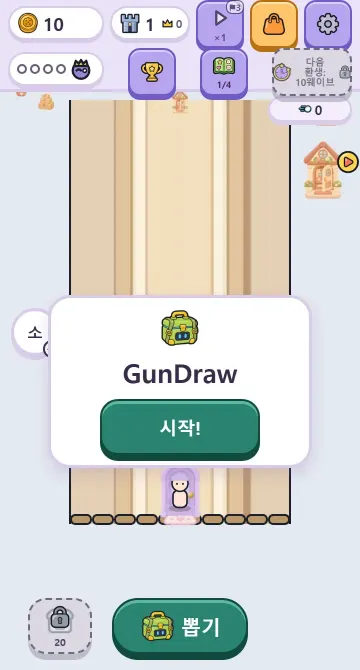
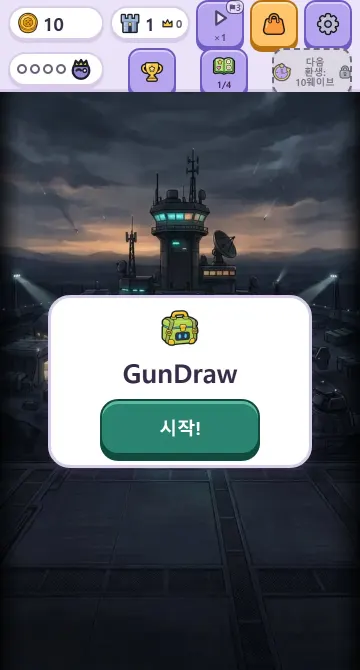
gundraw v0.7: 새 아트로 일괄 교체(미래 용병 vs 외계인)
- 홈: 히어로 4:5 그림, 대표 카드 16:9, 캐릭터 4명, 개발 이야기 그림
- GunDraw 페이지: 히어로·캐릭터(어두운 카드 통일)·아리 포즈 갤러리 3장·개발 이야기·OG(share 1200x630)
- 플레이 화면 3장을 v0.7 backview 빌드로 재촬영
- 좀비·우리 집 문구와 SD 슬롯 제거, 장르 '외계인 디펜스'
- 그림 변환 tools/make-gundraw-art.py(회색 단색 배경을 어두운 배경으로), game-assets.json은 art/를 keep

diff --git a/games/gundraw/index.html b/games/gundraw/index.html
@@ -4,7 +4,7 @@
 <meta charset="utf-8">
 <meta name="viewport" content="width=device-width, initial-scale=1, viewport-fit=cover">
 <title data-en="GunDraw — JmkFamily">GunDraw — JmkFamily</title>
-<meta name="description" content="좀비가 우리 집에 쳐들어왔다. 뽑기로 총을 모아 파티에 장착하고 집을 지키는 좀비 디펜스, GunDraw. 웹에서 바로 플레이. 개발 중인 웹 버전입니다." data-en="GunDraw: zombies are at the door. Pull guns, equip your party and hold the house. A zombie defense game you can play in the browser. The web version is a work in progress.">
+<meta name="description" content="외계인이 기지로 내려온다. 뽑기로 총을 모아 분대를 무장하고 정문을 지키는 외계인 디펜스, GunDraw. 웹에서 바로 플레이. 개발 중인 웹 버전입니다." data-en="GunDraw: aliens are dropping on the base. Pull guns, arm your squad and hold the gate. An alien defense game you can play in the browser. The web version is a work in progress.">
 <link rel="canonical" href="https://jmkfamily.github.io/games/gundraw/">
 <meta name="theme-color" content="#FFFFFF" media="(prefers-color-scheme: light)">
 <meta name="theme-color" content="#0D0D10" media="(prefers-color-scheme: dark)">
@@ -15,17 +15,17 @@
 <meta property="og:type" content="website">
 <meta property="og:site_name" content="JmkFamily">
 <meta property="og:title" content="GunDraw — JmkFamily">
-<meta property="og:description" content="좀비가 우리 집에 쳐들어왔다. 뽑기로 총을 모아 파티에 장착하고 집을 지키는 좀비 디펜스, GunDraw. 웹에서 바로 플레이. 개발 중인 웹 버전입니다.">
+<meta property="og:description" content="외계인이 기지로 내려온다. 뽑기로 총을 모아 분대를 무장하고 정문을 지키는 외계인 디펜스, GunDraw. 웹에서 바로 플레이. 개발 중인 웹 버전입니다.">
 <meta property="og:url" content="https://jmkfamily.github.io/games/gundraw/">
-<meta property="og:image" content="https://jmkfamily.github.io/assets/brand/og-1200x630.png">
+<meta property="og:image" content="https://jmkfamily.github.io/assets/games/gundraw/og-1200x630.jpg">
 <meta property="og:image:width" content="1200">
 <meta property="og:image:height" content="630">
 <meta property="og:locale" content="ko_KR">
 <meta property="og:locale:alternate" content="en_US">
 <meta name="twitter:card" content="summary_large_image">
 <meta name="twitter:title" content="GunDraw — JmkFamily">
-<meta name="twitter:description" content="좀비가 우리 집에 쳐들어왔다. 뽑기로 총을 모아 파티에 장착하고 집을 지키는 좀비 디펜스, GunDraw. 웹에서 바로 플레이. 개발 중인 웹 버전입니다.">
-<meta name="twitter:image" content="https://jmkfamily.github.io/assets/brand/og-1200x630.png">
+<meta name="twitter:description" content="외계인이 기지로 내려온다. 뽑기로 총을 모아 분대를 무장하고 정문을 지키는 외계인 디펜스, GunDraw. 웹에서 바로 플레이. 개발 중인 웹 버전입니다.">
+<meta name="twitter:image" content="https://jmkfamily.github.io/assets/games/gundraw/og-1200x630.jpg">
 <link rel="preconnect" href="https://fonts.googleapis.com">
 <link rel="preconnect" href="https://fonts.gstatic.com" crossorigin>
 <link href="https://fonts.googleapis.com/css2?family=Noto+Sans+KR:wght@400;600;700&display=swap" rel="stylesheet">
@@ -33,7 +33,7 @@
 <script>(function(){var h=document.documentElement;h.classList.add('js');var l,q=/[?&]lang=(ko|en)/.exec(location.search);try{l=q?q[1]:localStorage.getItem('jmk-lang')}catch(e){}if(l!=='ko'&&l!=='en')l=(navigator.language||'ko').toLowerCase().indexOf('ko')===0?'ko':'en';h.setAttribute('data-lang',l);h.setAttribute('lang',l)})()</script>
 <script src="/assets/js/site-config.js" defer></script>
 <script src="/assets/js/site.js" defer></script>
-<script type="application/ld+json">{"@context":"https://schema.org","@type":"VideoGame","name":"GunDraw","alternateName":"건드로우","genre":"Zombie defense","gamePlatform":"Web browser","url":"https://jmkfamily.github.io/games/gundraw/","image":"https://jmkfamily.github.io/assets/brand/og-1200x630.png","inLanguage":["ko","en"],"potentialAction":{"@type":"PlayAction","target":"https://jmkfamily.github.io/gamehub/games/gundraw/"}}</script>
+<script type="application/ld+json">{"@context":"https://schema.org","@type":"VideoGame","name":"GunDraw","alternateName":"건드로우","genre":"Alien defense","gamePlatform":"Web browser","url":"https://jmkfamily.github.io/games/gundraw/","image":"https://jmkfamily.github.io/assets/games/gundraw/og-1200x630.jpg","inLanguage":["ko","en"],"potentialAction":{"@type":"PlayAction","target":"https://jmkfamily.github.io/gamehub/games/gundraw/"}}</script>
 </head>
 <body>
 <a class="skip-link" href="#main"><span lang="ko" data-l="ko">본문으로 건너뛰기</span><span lang="en" data-l="en">Skip to content</span></a>
@@ -59,18 +59,18 @@
   </div>
 </header>
 <main id="main">
-<section class="hero hero--compact hero--has-visual hero--wide">
+<section class="hero hero--compact hero--has-visual">
   <div class="wrap hero__in">
     <div class="hero__copy">
-      <p class="hero__tag"><span lang="ko" data-l="ko">좀비 디펜스</span><span lang="en" data-l="en">Zombie defense</span></p>
+      <p class="hero__tag"><span lang="ko" data-l="ko">외계인 디펜스</span><span lang="en" data-l="en">Alien defense</span></p>
       <h1 class="hero__title">GunDraw</h1>
-      <p class="hero__lead"><span lang="ko" data-l="ko">좀비가 우리 집에 쳐들어왔어.</span><span lang="en" data-l="en">Zombies are at our door.</span></p>
+      <p class="hero__lead"><span lang="ko" data-l="ko">외계인이 기지로 내려옵니다. 총을 뽑아 분대를 무장하고 정문을 지키세요.</span><span lang="en" data-l="en">Aliens are dropping on the base. Pull guns, arm your squad, hold the gate.</span></p>
       <div class="hero__cta">
         <a class="btn btn--play" href="https://jmkfamily.github.io/gamehub/games/gundraw/" rel="noopener"><span lang="ko" data-l="ko">웹에서 바로 플레이</span><span lang="en" data-l="en">Play on the web</span></a>
         <span class="soon-badge"><span lang="ko" data-l="ko">모바일 버전 준비 중</span><span lang="en" data-l="en">Mobile version in the works</span></span>
       </div>
     </div>
-    <figure class="visual visual--hero"><picture><source media="(max-width: 767px)" srcset="/assets/games/gundraw/art/hero-sq-768.webp 768w, /assets/games/gundraw/art/hero-sq-480.webp 480w" sizes="100vw"><img src="/assets/games/gundraw/art/hero-wide-1376.webp" srcset="/assets/games/gundraw/art/hero-wide-1376.webp 1376w, /assets/games/gundraw/art/hero-wide-960.webp 960w, /assets/games/gundraw/art/hero-wide-480.webp 480w" sizes="(max-width: 1119px) 92vw, 1080px" alt="창가에서 정원의 종이모자 좀비들을 바라보는 소녀" data-en-alt="A girl at the window watching paper-hat zombies in the garden" width="1376" height="768" fetchpriority="high" decoding="async"></picture></figure>
+    <figure class="visual visual--hero"><picture><source media="(max-width: 899px)" srcset="/assets/games/gundraw/art/hero-sq-768.webp 768w, /assets/games/gundraw/art/hero-sq-480.webp 480w" sizes="(max-width: 600px) 92vw, 560px"><img src="/assets/games/gundraw/art/hero-1000.webp" srcset="/assets/games/gundraw/art/hero-1000.webp 1000w, /assets/games/gundraw/art/hero-640.webp 640w" sizes="(max-width: 1199px) 46vw, 540px" alt="몰려드는 외계 생물 앞에서 총을 쏘는 미래 전투복 차림의 용병 네 명" data-en-alt="Four mercenaries in future combat suits firing into a swarm of aliens" width="1000" height="1250" fetchpriority="high" decoding="async"></picture></figure>
   </div>
 </section>
 
@@ -88,12 +88,35 @@
       </article>
       <article class="step reveal" style="--i:1">
         <span class="step__num" aria-hidden="true">2</span>
-        <div class="step__body"><h3 class="step__title"><span lang="ko" data-l="ko">장착한다</span><span lang="en" data-l="en">Equip</span></h3><p><span lang="ko" data-l="ko">모은 총을 파티에 장착합니다. 보스를 넘으면 새 동료가 파티에 합류합니다.</span><span lang="en" data-l="en">Equip your party with the guns you collect. Beat a boss and a new friend joins the party.</span></p></div>
+        <div class="step__body"><h3 class="step__title"><span lang="ko" data-l="ko">장착한다</span><span lang="en" data-l="en">Equip</span></h3><p><span lang="ko" data-l="ko">모은 총을 분대원에게 장착합니다. 보스를 넘으면 새 분대원이 합류합니다.</span><span lang="en" data-l="en">Equip your squad with the guns you collect. Beat a boss and a new member joins.</span></p></div>
       </article>
       <article class="step reveal" style="--i:2">
         <span class="step__num" aria-hidden="true">3</span>
-        <div class="step__body"><h3 class="step__title"><span lang="ko" data-l="ko">막는다</span><span lang="en" data-l="en">Defend</span></h3><p><span lang="ko" data-l="ko">몰려오는 좀비에게서 우리 집을 지킵니다.</span><span lang="en" data-l="en">Keep the zombies out of the house.</span></p></div>
+        <div class="step__body"><h3 class="step__title"><span lang="ko" data-l="ko">막는다</span><span lang="en" data-l="en">Defend</span></h3><p><span lang="ko" data-l="ko">몰려오는 외계인을 막아 기지 정문을 지킵니다.</span><span lang="en" data-l="en">Hold back the aliens and keep the gate standing.</span></p></div>
       </article>
+    </div>
+  </div>
+</section>
+
+<section class="section cast">
+  <div class="wrap">
+    <header class="section__head">
+      <p class="section__eyebrow"><span lang="ko" data-l="ko">캐릭터</span><span lang="en" data-l="en">Characters</span></p>
+      <h2 class="section__title"><span lang="ko" data-l="ko">네 명이 한 분대입니다.</span><span lang="en" data-l="en">Four agents, one squad.</span></h2>
+    </header>
+    <div class="cast__grid">
+      <article class="cast__card reveal"><figure class="cast__art"><img src="/assets/games/gundraw/art/cast-somi-900.webp" srcset="/assets/games/gundraw/art/cast-somi-900.webp 900w, /assets/games/gundraw/art/cast-somi-450.webp 450w" sizes="(max-width: 899px) 45vw, 260px" alt="" width="900" height="1200" loading="lazy" decoding="async"></figure><div><h3 class="cast__name"><span lang="ko" data-l="ko">소미</span><span lang="en" data-l="en">Somi</span></h3><p class="cast__line"><span lang="ko" data-l="ko">말수는 적지만 전장의 흐름을 먼저 읽는 분대원</span><span lang="en" data-l="en">Quiet and hard to read, she senses the battle before it turns.</span></p></div></article>
+      <article class="cast__card reveal"><figure class="cast__art"><img src="/assets/games/gundraw/art/cast-daon-900.webp" srcset="/assets/games/gundraw/art/cast-daon-900.webp 900w, /assets/games/gundraw/art/cast-daon-450.webp 450w" sizes="(max-width: 899px) 45vw, 260px" alt="" width="900" height="1200" loading="lazy" decoding="async"></figure><div><h3 class="cast__name"><span lang="ko" data-l="ko">다온</span><span lang="en" data-l="en">Daon</span></h3><p class="cast__line"><span lang="ko" data-l="ko">자신 있는 눈빛으로 사선을 가르는 해결사</span><span lang="en" data-l="en">Confident and sharp-eyed, she keeps one glance on every angle.</span></p></div></article>
+      <article class="cast__card reveal"><figure class="cast__art"><img src="/assets/games/gundraw/art/cast-bori-900.webp" srcset="/assets/games/gundraw/art/cast-bori-900.webp 900w, /assets/games/gundraw/art/cast-bori-450.webp 450w" sizes="(max-width: 899px) 45vw, 260px" alt="" width="900" height="1200" loading="lazy" decoding="async"></figure><div><h3 class="cast__name"><span lang="ko" data-l="ko">보리</span><span lang="en" data-l="en">Bori</span></h3><p class="cast__line"><span lang="ko" data-l="ko">껌을 씹으며 가장 먼저 뛰어드는 돌격수</span><span lang="en" data-l="en">Chewing gum, she is always first through the breach.</span></p></div></article>
+      <article class="cast__card reveal"><figure class="cast__art"><img src="/assets/games/gundraw/art/cast-ari-900.webp" srcset="/assets/games/gundraw/art/cast-ari-900.webp 900w, /assets/games/gundraw/art/cast-ari-450.webp 450w" sizes="(max-width: 899px) 45vw, 260px" alt="" width="900" height="1200" loading="lazy" decoding="async"></figure><div><h3 class="cast__name"><span lang="ko" data-l="ko">아리</span><span lang="en" data-l="en">Ari</span></h3><p class="cast__line"><span lang="ko" data-l="ko">졸린 눈으로 장비를 뜯어고치는 분대 기술병</span><span lang="en" data-l="en">Sleepy-eyed tinkerer who always has a gadget up her sleeve.</span></p></div></article>
+    </div>
+    <div class="cast-gallery reveal">
+      <h3 class="cast-gallery__title"><span lang="ko" data-l="ko">아리 포즈</span><span lang="en" data-l="en">Ari poses</span></h3>
+      <div class="cast-gallery__row" tabindex="0" aria-label="아리 포즈" data-en-label="Ari poses">
+        <figure class="cast__art cast-gallery__item"><img src="/assets/games/gundraw/art/cast-ari-2-900.webp" srcset="/assets/games/gundraw/art/cast-ari-2-450.webp 450w, /assets/games/gundraw/art/cast-ari-2-900.webp 900w" sizes="(max-width: 899px) 56vw, 260px" alt="총을 들고 살펴보는 아리" data-en-alt="Ari checking over her rifle" width="900" height="1200" loading="lazy" decoding="async"></figure>
+        <figure class="cast__art cast-gallery__item"><img src="/assets/games/gundraw/art/cast-ari-3-900.webp" srcset="/assets/games/gundraw/art/cast-ari-3-450.webp 450w, /assets/games/gundraw/art/cast-ari-3-900.webp 900w" sizes="(max-width: 899px) 56vw, 260px" alt="무릎을 꿇고 총을 분해하는 아리" data-en-alt="Ari kneeling to take a rifle apart" width="900" height="1200" loading="lazy" decoding="async"></figure>
+        <figure class="cast__art cast-gallery__item"><img src="/assets/games/gundraw/art/cast-ari-4-900.webp" srcset="/assets/games/gundraw/art/cast-ari-4-450.webp 450w, /assets/games/gundraw/art/cast-ari-4-900.webp 900w" sizes="(max-width: 899px) 56vw, 260px" alt="홀로그램 화면을 만지며 웃는 아리" data-en-alt="Ari grinning at a holographic screen" width="900" height="1200" loading="lazy" decoding="async"></figure>
+      </div>
     </div>
   </div>
 </section>
@@ -122,7 +145,7 @@
     <div class="shots reveal" tabindex="0" aria-label="플레이 화면" data-en-label="Gameplay screens">
       <figure class="shot"><img src="/assets/games/gundraw/shots/title.webp" srcset="/assets/games/gundraw/shots/title-360w.webp 360w, /assets/games/gundraw/shots/title.webp 720w" sizes="(max-width: 700px) 62vw, 260px" alt="GunDraw 시작 화면" data-en-alt="GunDraw start screen" width="720" height="1340" loading="lazy" decoding="async"></figure>
       <figure class="shot"><img src="/assets/games/gundraw/shots/new-gun.webp" srcset="/assets/games/gundraw/shots/new-gun-360w.webp 360w, /assets/games/gundraw/shots/new-gun.webp 720w" sizes="(max-width: 700px) 62vw, 260px" alt="뽑기로 새 총을 얻는 화면" data-en-alt="Getting a new gun from a pull" width="720" height="1340" loading="lazy" decoding="async"></figure>
-      <figure class="shot"><img src="/assets/games/gundraw/shots/battle.webp" srcset="/assets/games/gundraw/shots/battle-360w.webp 360w, /assets/games/gundraw/shots/battle.webp 720w" sizes="(max-width: 700px) 62vw, 260px" alt="좀비를 막는 전투 화면" data-en-alt="Battle screen: holding off the zombies" width="720" height="1340" loading="lazy" decoding="async"></figure>
+      <figure class="shot"><img src="/assets/games/gundraw/shots/battle.webp" srcset="/assets/games/gundraw/shots/battle-360w.webp 360w, /assets/games/gundraw/shots/battle.webp 720w" sizes="(max-width: 700px) 62vw, 260px" alt="외계인을 막는 전투 화면" data-en-alt="Battle screen: holding off the aliens" width="720" height="1340" loading="lazy" decoding="async"></figure>
     </div>
   </div>
 </section>
@@ -144,7 +167,7 @@
         <a class="text-link" data-js="office-link" href="#" rel="nofollow noopener" target="_blank" hidden><span lang="ko" data-l="ko">개발실 구경 ↗</span><span lang="en" data-l="en">Visit the dev office ↗</span></a>
       </p>
     </div>
-    <figure class="visual visual--story reveal"><img src="/assets/games/gundraw/art/story-768.webp" srcset="/assets/games/gundraw/art/story-768.webp 768w, /assets/games/gundraw/art/story-480.webp 480w" sizes="(max-width: 899px) 92vw, 520px" alt="뽑기 상자에서 장난감 총이 빛나며 나오는 순간을 기뻐하는 소녀" data-en-alt="A girl delighted as a toy gun glows out of a pull box" width="768" height="512" loading="lazy" decoding="async"></figure>
+    <figure class="visual visual--story reveal"><img src="/assets/games/gundraw/art/story-1024.webp" srcset="/assets/games/gundraw/art/story-1024.webp 1024w, /assets/games/gundraw/art/story-768.webp 768w, /assets/games/gundraw/art/story-480.webp 480w" sizes="(max-width: 899px) 92vw, 520px" alt="작전실 홀로그램 테이블 둘레에서 장비를 정비하는 분대원 네 명" data-en-alt="The four-member squad tuning gear around a holographic table in the ops room" width="1024" height="683" loading="lazy" decoding="async"></figure>
   </div>
 </section>
 

diff --git a/index.html b/index.html
@@ -58,7 +58,7 @@
   </div>
 </header>
 <main id="main">
-<section class="hero">
+<section class="hero hero--has-visual">
   <div class="wrap hero__in">
     <div class="hero__copy">
       <img class="hero__mark" src="/assets/brand/jmkfamily-symbol.svg" alt="" width="136" height="136">
@@ -70,6 +70,7 @@
         <a class="text-link" href="/contact/"><span lang="ko" data-l="ko">문의하기 ›</span><span lang="en" data-l="en">Contact ›</span></a>
       </div>
     </div>
+    <figure class="visual visual--hero"><picture><source media="(max-width: 899px)" srcset="/assets/games/gundraw/art/hero-sq-768.webp 768w, /assets/games/gundraw/art/hero-sq-480.webp 480w" sizes="(max-width: 600px) 92vw, 560px"><img src="/assets/games/gundraw/art/hero-1000.webp" srcset="/assets/games/gundraw/art/hero-1000.webp 1000w, /assets/games/gundraw/art/hero-640.webp 640w" sizes="(max-width: 1199px) 46vw, 540px" alt="몰려드는 외계 생물 앞에서 총을 쏘는 미래 전투복 차림의 용병 네 명" data-en-alt="Four mercenaries in future combat suits firing into a swarm of aliens" width="1000" height="1250" fetchpriority="high" decoding="async"></picture></figure>
   </div>
 </section>
 
@@ -105,10 +106,10 @@
     </header>
     <div class="game-grid reveal">
       <a class="game-card" href="/games/gundraw/">
-        <div class="game-card__art"><figure class="visual visual--card"><img src="/assets/games/gundraw/art/card-960.webp" srcset="/assets/games/gundraw/art/card-960.webp 960w, /assets/games/gundraw/art/card-480.webp 480w" sizes="(max-width: 899px) 92vw, 520px" alt="보라색 카디건을 입은 소녀와 초록 로봇이 거실에서 종이모자를 쓴 좀비들을 향해 장난감 총을 겨누는 그림" data-en-alt="A girl in a lilac cardigan and a green robot aim a toy gun at paper-hat zombies coming through the living-room door" width="960" height="536" loading="lazy" decoding="async"></figure></div>
+        <div class="game-card__art"><figure class="visual visual--card"><img src="/assets/games/gundraw/art/card-1280.webp" srcset="/assets/games/gundraw/art/card-1280.webp 1280w, /assets/games/gundraw/art/card-960.webp 960w, /assets/games/gundraw/art/card-480.webp 480w" sizes="(max-width: 899px) 92vw, 880px" alt="밤의 기지 방벽에서 다가오는 외계 생물을 향해 사격하는 분대 네 명" data-en-alt="A four-member squad firing at incoming aliens on a base wall at night" width="1280" height="720" loading="lazy" decoding="async"></figure></div>
         <div class="game-card__body">
           <h3 class="game-card__title">GunDraw</h3>
-          <p class="game-card__desc"><span lang="ko" data-l="ko">뽑은 총으로 우리 집을 지키는 좀비 디펜스</span><span lang="en" data-l="en">A zombie defense game. Pull guns, hold the house.</span></p>
+          <p class="game-card__desc"><span lang="ko" data-l="ko">총을 뽑아 분대를 무장하고 외계인 침공을 막는 디펜스 게임</span><span lang="en" data-l="en">A defense game. Pull guns, arm your squad, stop the alien invasion.</span></p>
           <p class="tag-list"><span class="tag tag--web"><span lang="ko" data-l="ko">웹에서 플레이 가능</span><span lang="en" data-l="en">Playable on the web</span></span><span class="tag"><span lang="ko" data-l="ko">모바일 준비 중</span><span lang="en" data-l="en">Mobile in the works</span></span></p>
           <span class="game-card__more text-link"><span lang="ko" data-l="ko">게임 자세히 보기 ›</span><span lang="en" data-l="en">About the game ›</span></span>
         </div>
@@ -121,7 +122,22 @@
   </div>
 </section>
 
-<section class="section section--alt story" data-js="story" hidden>
+<section class="section cast">
+  <div class="wrap">
+    <header class="section__head">
+      <p class="section__eyebrow"><span lang="ko" data-l="ko">캐릭터</span><span lang="en" data-l="en">Characters</span></p>
+      <h2 class="section__title"><span lang="ko" data-l="ko">네 명이 한 분대입니다.</span><span lang="en" data-l="en">Four agents, one squad.</span></h2>
+    </header>
+    <div class="cast__grid">
+      <article class="cast__card reveal"><figure class="cast__art"><img src="/assets/games/gundraw/art/cast-somi-900.webp" srcset="/assets/games/gundraw/art/cast-somi-900.webp 900w, /assets/games/gundraw/art/cast-somi-450.webp 450w" sizes="(max-width: 899px) 45vw, 260px" alt="" width="900" height="1200" loading="lazy" decoding="async"></figure><div><h3 class="cast__name"><span lang="ko" data-l="ko">소미</span><span lang="en" data-l="en">Somi</span></h3><p class="cast__line"><span lang="ko" data-l="ko">말수는 적지만 전장의 흐름을 먼저 읽는 분대원</span><span lang="en" data-l="en">Quiet and hard to read, she senses the battle before it turns.</span></p></div></article>
+      <article class="cast__card reveal"><figure class="cast__art"><img src="/assets/games/gundraw/art/cast-daon-900.webp" srcset="/assets/games/gundraw/art/cast-daon-900.webp 900w, /assets/games/gundraw/art/cast-daon-450.webp 450w" sizes="(max-width: 899px) 45vw, 260px" alt="" width="900" height="1200" loading="lazy" decoding="async"></figure><div><h3 class="cast__name"><span lang="ko" data-l="ko">다온</span><span lang="en" data-l="en">Daon</span></h3><p class="cast__line"><span lang="ko" data-l="ko">자신 있는 눈빛으로 사선을 가르는 해결사</span><span lang="en" data-l="en">Confident and sharp-eyed, she keeps one glance on every angle.</span></p></div></article>
+      <article class="cast__card reveal"><figure class="cast__art"><img src="/assets/games/gundraw/art/cast-bori-900.webp" srcset="/assets/games/gundraw/art/cast-bori-900.webp 900w, /assets/games/gundraw/art/cast-bori-450.webp 450w" sizes="(max-width: 899px) 45vw, 260px" alt="" width="900" height="1200" loading="lazy" decoding="async"></figure><div><h3 class="cast__name"><span lang="ko" data-l="ko">보리</span><span lang="en" data-l="en">Bori</span></h3><p class="cast__line"><span lang="ko" data-l="ko">껌을 씹으며 가장 먼저 뛰어드는 돌격수</span><span lang="en" data-l="en">Chewing gum, she is always first through the breach.</span></p></div></article>
+      <article class="cast__card reveal"><figure class="cast__art"><img src="/assets/games/gundraw/art/cast-ari-900.webp" srcset="/assets/games/gundraw/art/cast-ari-900.webp 900w, /assets/games/gundraw/art/cast-ari-450.webp 450w" sizes="(max-width: 899px) 45vw, 260px" alt="" width="900" height="1200" loading="lazy" decoding="async"></figure><div><h3 class="cast__name"><span lang="ko" data-l="ko">아리</span><span lang="en" data-l="en">Ari</span></h3><p class="cast__line"><span lang="ko" data-l="ko">졸린 눈으로 장비를 뜯어고치는 분대 기술병</span><span lang="en" data-l="en">Sleepy-eyed tinkerer who always has a gadget up her sleeve.</span></p></div></article>
+    </div>
+  </div>
+</section>
+
+<section class="section section--alt story story--has-visual" data-js="story" hidden>
   <div class="wrap story__in">
     <div class="story__copy">
       <p class="section__eyebrow"><span lang="ko" data-l="ko">개발 이야기</span><span lang="en" data-l="en">Dev story</span></p>
@@ -132,6 +148,7 @@
         <a class="text-link" data-js="office-link" href="#" rel="nofollow noopener" target="_blank" hidden><span lang="ko" data-l="ko">개발실 구경 ↗</span><span lang="en" data-l="en">Visit the dev office ↗</span></a>
       </p>
     </div>
+    <figure class="visual visual--story reveal"><img src="/assets/games/gundraw/art/story-1024.webp" srcset="/assets/games/gundraw/art/story-1024.webp 1024w, /assets/games/gundraw/art/story-768.webp 768w, /assets/games/gundraw/art/story-480.webp 480w" sizes="(max-width: 899px) 92vw, 520px" alt="작전실 홀로그램 테이블 둘레에서 장비를 정비하는 분대원 네 명" data-en-alt="The four-member squad tuning gear around a holographic table in the ops room" width="1024" height="683" loading="lazy" decoding="async"></figure>
   </div>
 </section>
 

diff --git a/assets/css/site.css b/assets/css/site.css
@@ -227,15 +227,9 @@ html:not([data-lang="en"]) body:not(.is-bilingual) [data-l="en"] { display: none
 .visual--hero img { object-position: 50% 20%; }
 .visual--story { aspect-ratio: 4 / 3; }
 .visual--card { aspect-ratio: 16 / 9; border-radius: 0; }
-.visual--sd {
-  width: 200px; height: 200px; margin: 0 auto; border-radius: 50%; background: var(--c-tint);
-  display: grid; place-items: center;
-}
-.visual--sd img { width: 100%; height: 100%; object-fit: contain; }
 @media (min-width: 900px) {
   .visual--hero { aspect-ratio: 4 / 5; }
   .visual--story { aspect-ratio: 3 / 2; }
-  .visual--sd { width: 280px; height: 280px; }
 }
 
 /* ========== 7. 히어로 ========== */
@@ -272,6 +266,7 @@ html:not([data-lang="en"]) body:not(.is-bilingual) [data-l="en"] { display: none
   .hero--has-visual .hero__copy { align-items: flex-start; max-width: none; }
   .hero--has-visual .hero__cta { justify-content: flex-start; }
   .hero--has-visual .hero__title { max-width: 8em; }
+  .hero--has-visual .hero__mark { margin-left: 0; }
   .hero--has-visual .visual { max-width: none; }
 }
 @media (min-width: 1280px) {
@@ -287,8 +282,6 @@ html:not([data-lang="en"]) body:not(.is-bilingual) [data-l="en"] { display: none
 .step__title { margin-top: var(--sp-3); font-size: var(--t-h3); font-weight: 600; line-height: 1.3; letter-spacing: -.01em; }
 .step__body p { margin-top: var(--sp-2); font-size: var(--t-body); line-height: 1.6; color: var(--c-ink-soft); }
 .step .step__title + p { margin-top: var(--sp-2); }
-.step .visual--sd { margin-bottom: var(--sp-5); }
-.section__head + .visual--sd { margin: 0 auto var(--head-gap); }
 @media (min-width: 768px) {
   .steps { grid-template-columns: repeat(3, 1fr); gap: var(--sp-7); }
   .step, .step:first-child { padding: 0; border-top: 0; }
@@ -302,17 +295,27 @@ html:not([data-lang="en"]) body:not(.is-bilingual) [data-l="en"] { display: none
 
 /* ========== 10. 캐릭터 ========== */
 .cast__grid { display: grid; grid-template-columns: 1fr 1fr; gap: var(--sp-5) var(--sp-4); }
-.cast__card { text-align: left; }
-.cast__art { aspect-ratio: 3 / 4; margin: 0 0 var(--sp-4); overflow: hidden; border-radius: var(--r-l); background: var(--c-tint); }
+/* 캐릭터 카드: 배경이 섞인 원화(복도·단색)를 어두운 카드 한 모양으로 통일. 라이트·다크 테마 모두 같은 어두운 카드 */
+.cast__card { --cast-bg: #0c141d; --cast-ink: #eef3f7; --cast-soft: #a9b8c4; display: flex; flex-direction: column; text-align: left; overflow: hidden; border-radius: var(--r-l); background: var(--cast-bg); color: var(--cast-ink); box-shadow: 0 1px 0 rgba(255, 255, 255, .06) inset, 0 10px 28px rgba(12, 20, 29, .18); }
+.cast__art { position: relative; aspect-ratio: 3 / 4; margin: 0; overflow: hidden; border-radius: var(--r-l); background: #0c141d; }
+.cast__card .cast__art { border-radius: 0; }
 .cast__art img { display: block; width: 100%; height: 100%; object-fit: cover; object-position: 50% 0; }
-.cast__name { font-size: var(--t-h3); font-weight: 600; line-height: 1.3; letter-spacing: -.01em; }
-.cast__line { margin-top: var(--sp-1); font-size: var(--t-small); line-height: 1.5; color: var(--c-ink-soft); }
+.cast__art::after { content: ''; position: absolute; inset: 0; pointer-events: none; background: radial-gradient(120% 90% at 50% 38%, transparent 55%, rgba(6, 10, 16, .55) 100%), linear-gradient(to bottom, transparent 72%, #0c141d 100%); }
+.cast__card > div { padding: 0 var(--sp-4) var(--sp-4); margin-top: calc(-1 * var(--sp-3)); position: relative; }
+.cast__name { font-size: var(--t-h3); font-weight: 600; line-height: 1.3; letter-spacing: -.01em; color: var(--cast-ink, inherit); }
+.cast__line { margin-top: var(--sp-1); font-size: var(--t-small); line-height: 1.5; color: var(--cast-soft, var(--c-ink-soft)); }
+.cast-gallery { margin-top: var(--sp-8); }
+.cast-gallery__title { font-size: var(--t-h3); font-weight: 600; line-height: 1.3; margin-bottom: var(--sp-4); }
+.cast-gallery__row { display: flex; gap: var(--sp-4); padding: 4px 4px var(--sp-4); overflow-x: auto; scroll-snap-type: x mandatory; -webkit-overflow-scrolling: touch; }
+.cast-gallery__item { flex: 0 0 56%; scroll-snap-align: start; }
+@media (min-width: 600px) { .cast-gallery__item { flex-basis: 40%; } }
 .cast--solo .cast__grid { grid-template-columns: 1fr; max-width: 880px; margin: 0 auto; align-items: center; gap: var(--sp-5); }
 .cast--solo .cast__art { max-width: 360px; margin: 0 auto; }
 .cast--solo .cast__name { font-size: var(--t-h2); font-weight: 700; letter-spacing: -.02em; }
 .cast--solo .cast__line { font-size: var(--t-lead); }
 @media (min-width: 900px) {
   .cast__grid { grid-template-columns: repeat(4, 1fr); gap: var(--sp-6); }
+  .cast-gallery__row { display: grid; grid-template-columns: repeat(3, 1fr); gap: var(--sp-6); overflow: visible; padding: 0; }
   .cast--solo .cast__grid { grid-template-columns: 1fr 1fr; gap: var(--sp-8); }
   .cast--solo .cast__art { max-width: none; margin: 0; }
 }
@@ -518,13 +521,3 @@ details.ticket-view .btn { margin-right: var(--sp-3); }
 }
 .hero__cta .text-link { display: inline-flex; align-items: center; min-height: 48px; }
 
-/* 히어로 가로형 그림(hero--wide): 글 아래에 넓게. 폰은 정사각 크롭 파일(<picture>), 768부터 16:9. (개발자 추가) */
-.hero--wide .hero__in { padding-bottom: var(--sp-8); }
-.hero--wide .visual--hero { width: 100%; max-width: 1080px; }
-@media (min-width: 768px) { .hero--wide .visual--hero { aspect-ratio: 16 / 9; } }
-@media (min-width: 900px) {
-  .hero--wide.hero--has-visual .hero__in { grid-template-columns: 1fr; justify-items: center; text-align: center; padding-top: 120px; padding-bottom: 96px; }
-  .hero--wide.hero--has-visual .hero__copy { align-items: center; max-width: 760px; }
-  .hero--wide.hero--has-visual .hero__cta { justify-content: center; }
-  .hero--wide.hero--has-visual .hero__title { max-width: none; }
-}

diff --git a/games/index.html b/games/index.html
@@ -69,10 +69,10 @@
   <div class="wrap">
     <div class="game-grid">
       <a class="game-card enter" href="/games/gundraw/" style="--d:120ms">
-        <div class="game-card__art"><figure class="visual visual--card"><img src="/assets/games/gundraw/art/card-960.webp" srcset="/assets/games/gundraw/art/card-960.webp 960w, /assets/games/gundraw/art/card-480.webp 480w" sizes="(max-width: 899px) 92vw, 520px" alt="보라색 카디건을 입은 소녀와 초록 로봇이 거실에서 종이모자를 쓴 좀비들을 향해 장난감 총을 겨누는 그림" data-en-alt="A girl in a lilac cardigan and a green robot aim a toy gun at paper-hat zombies coming through the living-room door" width="960" height="536" loading="lazy" decoding="async"></figure></div>
+        <div class="game-card__art"><figure class="visual visual--card"><img src="/assets/games/gundraw/art/card-1280.webp" srcset="/assets/games/gundraw/art/card-1280.webp 1280w, /assets/games/gundraw/art/card-960.webp 960w, /assets/games/gundraw/art/card-480.webp 480w" sizes="(max-width: 899px) 92vw, 880px" alt="밤의 기지 방벽에서 다가오는 외계 생물을 향해 사격하는 분대 네 명" data-en-alt="A four-member squad firing at incoming aliens on a base wall at night" width="1280" height="720" loading="lazy" decoding="async"></figure></div>
         <div class="game-card__body">
           <h3 class="game-card__title">GunDraw</h3>
-          <p class="game-card__desc"><span lang="ko" data-l="ko">좀비 디펜스</span><span lang="en" data-l="en">Zombie defense</span></p>
+          <p class="game-card__desc"><span lang="ko" data-l="ko">외계인 디펜스</span><span lang="en" data-l="en">Alien defense</span></p>
           <p class="tag-list"><span class="tag tag--web"><span lang="ko" data-l="ko">웹에서 플레이 가능</span><span lang="en" data-l="en">Playable on the web</span></span><span class="tag"><span lang="ko" data-l="ko">모바일 준비 중</span><span lang="en" data-l="en">Mobile in the works</span></span></p>
           <span class="game-card__more text-link"><span lang="ko" data-l="ko">게임 자세히 보기 ›</span><span lang="en" data-l="en">About the game ›</span></span>
         </div>

diff --git a/tools/make-gundraw-art.py b/tools/make-gundraw-art.py
@@ -1,0 +1,64 @@
+# GunDraw v0.7 웹 그림 -> 사이트 webp(크롭·회색 배경을 어두운 카드 배경으로 교체). 원본: gamehub projects/gundraw/assets/v07 (web/·final/)
+# 사용: python -I tools/make-gundraw-art.py <v07 폴더> assets/games/gundraw/art  (og-1200x630.jpg는 assets/games/gundraw/로 옮김)
+import sys, os
+from PIL import Image, ImageDraw, ImageFilter, ImageChops
+src, out = sys.argv[1], sys.argv[2]; os.makedirs(out, exist_ok=True)
+W = lambda p: os.path.join(src, p)
+def save(im, name, w, h=None, q=80):
+    h = h or round(im.height * w / im.width)
+    im.convert('RGB').resize((w, h), Image.LANCZOS).save(os.path.join(out, name), 'WEBP', quality=q, method=6)
+def dark_bg(size):
+    w, h = size; bg = Image.new('RGB', size)
+    top, bot = (16, 26, 38), (9, 14, 22)
+    px = bg.load()
+    for y in range(h):
+        t = y / (h - 1); c = tuple(round(top[i] + (bot[i] - top[i]) * t) for i in range(3))
+        for x in range(w): px[x, y] = c
+    glow = Image.new('L', size, 0); d = ImageDraw.Draw(glow)
+    d.ellipse((w * .05, h * .08, w * .95, h * .92), fill=120); glow = glow.filter(ImageFilter.GaussianBlur(w * .18))
+    teal = Image.new('RGB', size, (40, 92, 112))
+    return Image.composite(teal, bg, glow)
+def rekey(path):
+    im = Image.open(path).convert('RGB'); w, h = im.size
+    bgc = im.getpixel((4, 4))
+    diff = ImageChops.difference(im, Image.new('RGB', im.size, bgc)).convert('L')  # ~mean diff
+    mark = im.copy()
+    for p in [(0, 0), (w - 1, 0), (0, h // 2), (w - 1, h // 2), (0, h - 1), (w - 1, h - 1), (w // 2, 0)]:
+        ImageDraw.floodfill(mark, p, (255, 0, 255), thresh=26)
+    m = Image.eval(ImageChops.difference(mark, Image.new('RGB', im.size, (255, 0, 255))).convert('L'), lambda v: 255 if v < 2 else 0)
+    near = Image.eval(diff, lambda v: 255 if v < 5 else 0)
+    hole = near.filter(ImageFilter.MinFilter(7)).filter(ImageFilter.MaxFilter(7))
+    m = ImageChops.lighter(m, hole)
+    ring = m.filter(ImageFilter.MaxFilter(7))
+    soft = Image.eval(diff, lambda v: min(255, max(0, (v - 8) * 7)))
+    alpha = Image.new('L', im.size, 255)
+    alpha.paste(soft, mask=ring)          # edge ring: soft alpha by distance
+    alpha.paste(0, mask=m)                # bg: 0
+    alpha = alpha.filter(ImageFilter.GaussianBlur(.6))
+    return Image.composite(im, dark_bg(im.size), alpha)
+def crop34(im, top=0.04):
+    w, h = im.size; th = round(w * 4 / 3)
+    if th <= h:
+        y = min(round(h * top), h - th); return im.crop((0, y, w, y + th))
+    tw = round(h * 3 / 4); x = (w - tw) // 2; return im.crop((x, 0, x + tw, h))
+hero = Image.open(W('web/hero-1600x2000.png'))
+for w in (1000, 640): save(hero, f'hero-{w}.webp', w)
+sq = Image.open(W('web/hero-1024x1024.png'))
+for w in (768, 480): save(sq, f'hero-sq-{w}.webp', w)
+ban = Image.open(W('web/banner-1920x1080.png'))
+for w in (1280, 960, 480): save(ban, f'card-{w}.webp', w)
+st = Image.open(W('web/story-1536x1024.png'))
+for w in (1024, 768, 480): save(st, f'story-{w}.webp', w)
+cast = {
+  'somi': Image.open(W('web/char-somi-1200x1600.png')),
+  'daon': rekey(W('web/char-daon-1200x1600.png')),
+  'bori': Image.open(W('web/char-bori-1200x1600.png')),
+  'ari': rekey(W('web/char-ari-1200x1600.png')),
+  'ari-2': crop34(Image.open(W('final/ari-1.png'))),
+  'ari-3': crop34(Image.open(W('final/ari-2.png'))),
+  'ari-4': crop34(Image.open(W('final/ari-3.png'))),
+}
+for k, im in cast.items():
+    for w in (900, 450): save(im, f'cast-{k}-{w}.webp', w, round(w * 4 / 3))
+Image.open(W('web/share-1200x630.png')).convert('RGB').save(os.path.join(out, 'og-1200x630.jpg'), 'JPEG', quality=86, optimize=True, progressive=True)
+for f in sorted(os.listdir(out)): print(f, os.path.getsize(os.path.join(out, f)) // 1024, 'KB')
